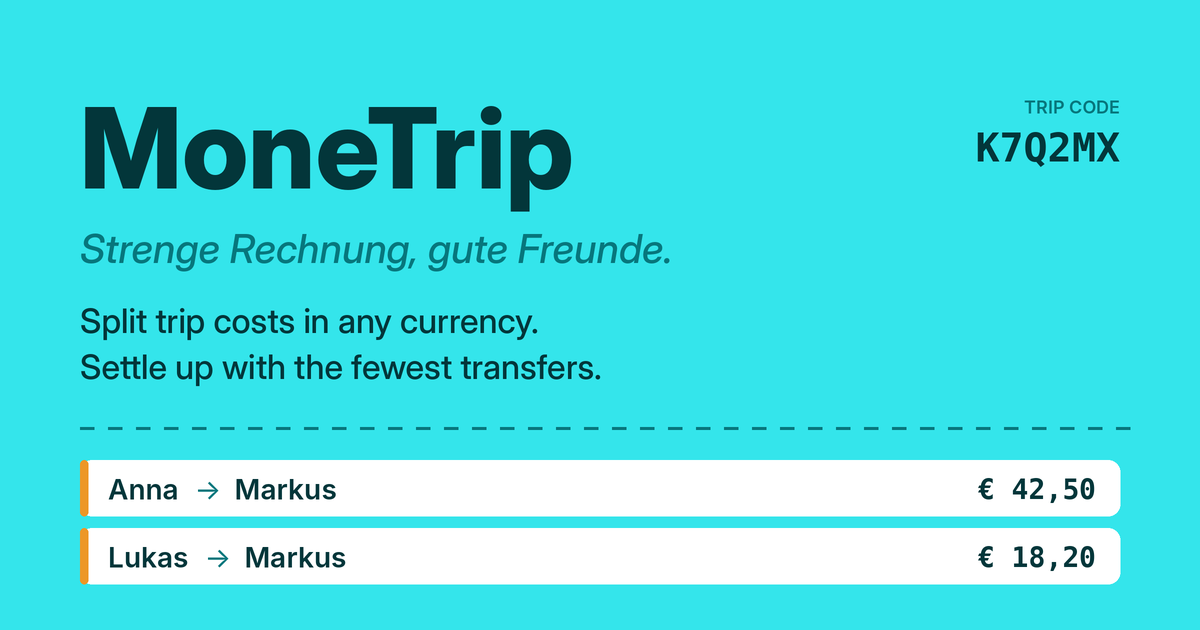
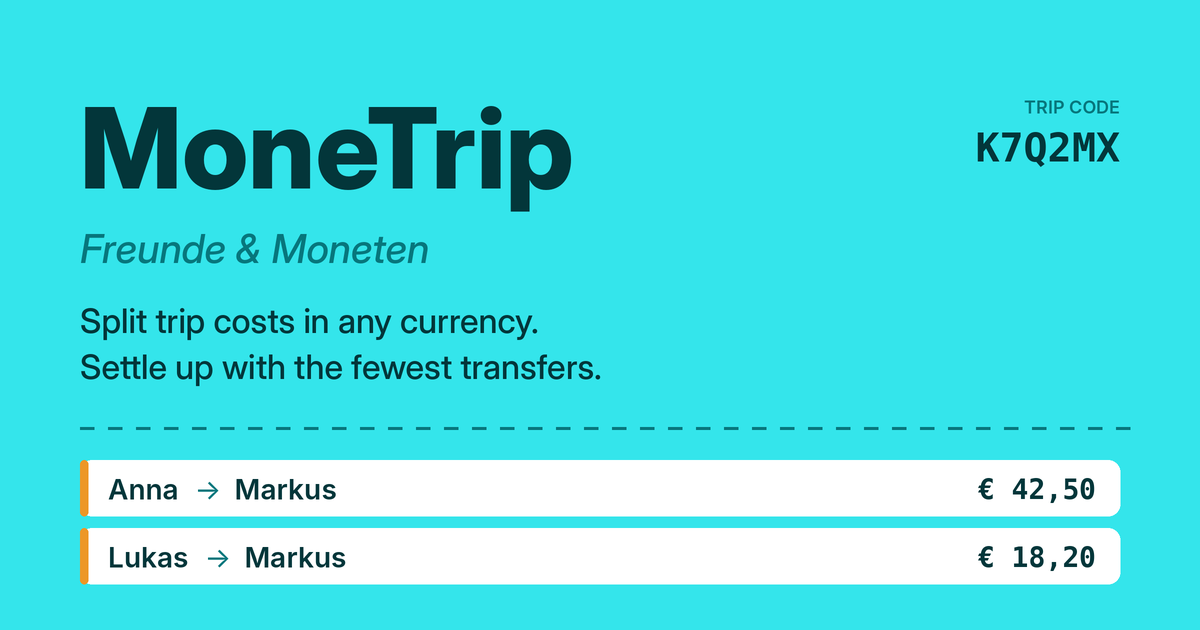
New tagline: Freunde & Moneten
Claude-Session: https://claude.ai/code/session_01PigHQZSqNEx1jYxpjg7TCa

Changed region(s): [[0.0617, 0.3619, 0.555, 0.4524]]

diff --git a/index.html b/index.html
@@ -4,12 +4,12 @@
 <meta charset="utf-8">
 <meta name="viewport" content="width=device-width,initial-scale=1,viewport-fit=cover">
 <title>MoneTrip</title>
-<meta name="description" content="MoneTrip – strenge Rechnung, gute Freunde. Split trip expenses and settle up with the fewest transfers.">
+<meta name="description" content="MoneTrip – Freunde &amp; Moneten. Split trip expenses and settle up with the fewest transfers.">
 <meta name="theme-color" content="#34e5eb">
 <meta property="og:type" content="website">
 <meta property="og:site_name" content="MoneTrip">
 <meta property="og:title" content="Join my trip on MoneTrip">
-<meta property="og:description" content="Strenge Rechnung, gute Freunde. Add what you paid, and MoneTrip works out who pays whom.">
+<meta property="og:description" content="Freunde &amp; Moneten. Add what you paid, and MoneTrip works out who pays whom.">
 <meta property="og:url" content="https://diemmarkus.github.io/monetrip/">
 <meta property="og:image" content="https://diemmarkus.github.io/monetrip/og-image.png">
 <meta property="og:image:width" content="1200">
@@ -20,7 +20,7 @@
 <link rel="icon" href="monetrip-icon.svg" type="image/svg+xml">
 <link rel="preconnect" href="https://fonts.googleapis.com">
 <link rel="stylesheet" href="https://fonts.googleapis.com/css2?family=Bricolage+Grotesque:opsz,wght@12..96,500;12..96,700&family=Figtree:wght@400;500;600&family=JetBrains+Mono:wght@500&display=swap">
-<link rel="stylesheet" href="style.css?v=19">
+<link rel="stylesheet" href="style.css?v=20">
 <style>html{padding-top:env(safe-area-inset-top,0px);padding-bottom:env(safe-area-inset-bottom,0px)}body{margin:0}[hidden]{display:none!important}</style>
 </head>
 <body>
@@ -28,6 +28,6 @@
   <div class="panel"><p class="muted">Loading…</p></div>
 </div>
 <div class="toast" id="toast" hidden></div>
-<script type="module" src="app.js?v=19"></script>
+<script type="module" src="app.js?v=20"></script>
 </body>
 </html>

diff --git a/app.js b/app.js
@@ -201,7 +201,7 @@ function brand() {
     me ? h("span", { class: "who" }, me.photoURL ? h("img", { src: me.photoURL, alt: "" }) : null,
       h("span", { text: guest ? (firstName() || "Guest") + " · guest" : (me.displayName || me.email || "") }),
       guest ? h("button", { class: "ghost", style: "color:var(--accent-text)", onclick: saveWithGoogle }, "Save with Google") : null, out) : null),
-    h("span", { class: "tag", text: "Strenge Rechnung, gute Freunde." }));
+    h("span", { class: "tag", text: "Freunde & Moneten" }));
 }
 function render() {
   const ae = document.activeElement?.id, saved = {};

diff --git a/README.md b/README.md
@@ -1,6 +1,6 @@
 # MoneTrip
 
-*Strenge Rechnung, gute Freunde.*
+*Freunde & Moneten*
 
 Split trip expenses with friends. Create a trip, invite people with a link, log expenses in any currency (default EUR, with ECB exchange rates filled in automatically), and press **Settle up** to get the payback plan with the fewest possible transfers.
 
